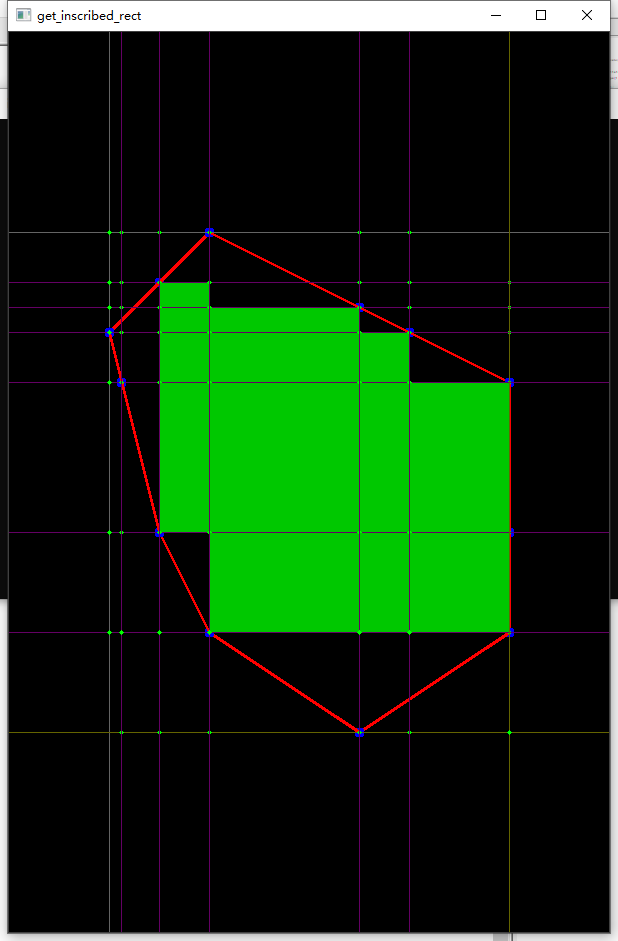
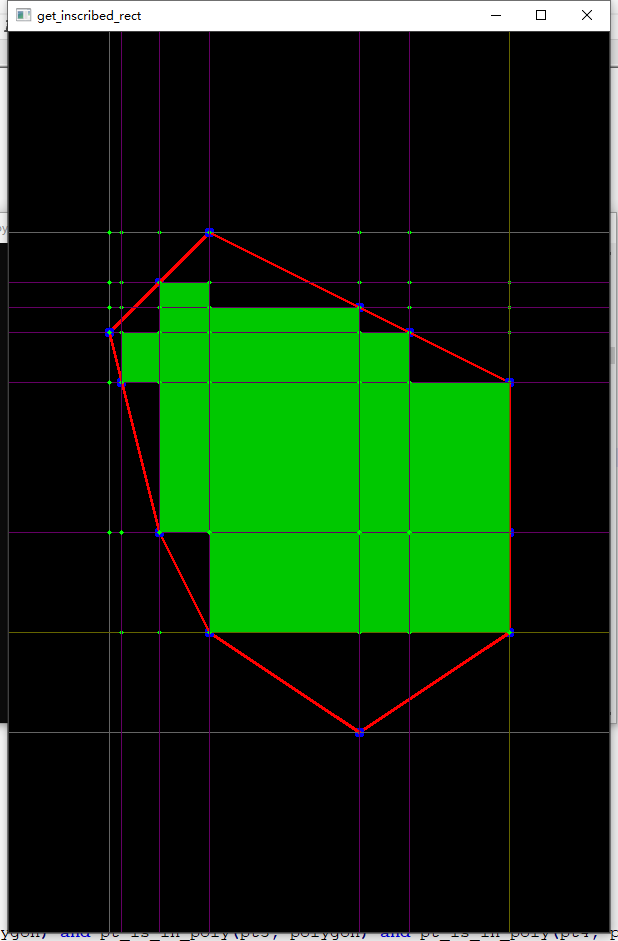
修复精度问题

diff --git a/inscribed_rect.py b/inscribed_rect.py
@@ -111,16 +111,17 @@ def pt_is_in_poly(p, poly):
 		next_i = i + 1 if i + 1 < len(poly) else 0
 		x1, y1 = corner
 		x2, y2 = poly[next_i]
-		if (x1 == px and y1 == py) or (x2 == px and y2 == py):  # if point is on vertex
+		if (x1 == px and y1 == py) or (x2 == px and y2 == py):  # 点在顶点上
 			ret = True
 			break
 		#endif
-		if min(y1, y2) < py <= max(y1, y2):  # find horizontal edges of polygon
+		if min(y1, y2) < py <= max(y1, y2):  #找到多边形的水平边
 			x = x1 + (py - y1) * (x2 - x1) / (y2 - y1)
-			if x == px:  # if point is on edge
+			x = int(x) #转为整数，防止因为精度问题导致的判断错误
+			if x == px:  # 点在边上
 				ret = True
 				break
-			elif x > px:  # if point is on left-side of line
+			elif x > px:  #点在左侧，做一次发展
 				ret = not ret
 			#endif
 		#endif
@@ -383,8 +384,9 @@ def get_inscribed_rect(points):
 	
 	#endfor
 	
-	L = [] #横向扫描
-	P = [] #纵向扫描
+	#矩形数组[左上角矩形左上角顶点xy, 右下角矩形右下角顶点, 面积]
+	# R =[ [x1,y1,x2,y2,s], [x1,y1,x2,y2,s], [x1,y1,x2,y2,s] ... ]
+	R = []
 	
 	'''
 	
@@ -396,7 +398,11 @@ def get_inscribed_rect(points):
 		
 		for j in range(v_size-1):
 			
+			#当前矩形
 			v = matrix_bool[i][j]
+			
+			#横向寻找
+			#纵向寻找
 			v_right = matrix_bool[i][j+1]
 			v_down = matrix_bool[i+1][j]
 			
@@ -418,11 +424,7 @@ def get_inscribed_rect(points):
 		
 	#endfor
 	'''
-	
-	#计算最后一个顶点的连通性
-	
-	
-	## 获取回路顶点
+
 
 	cv2.destroyAllWindows()
 	
